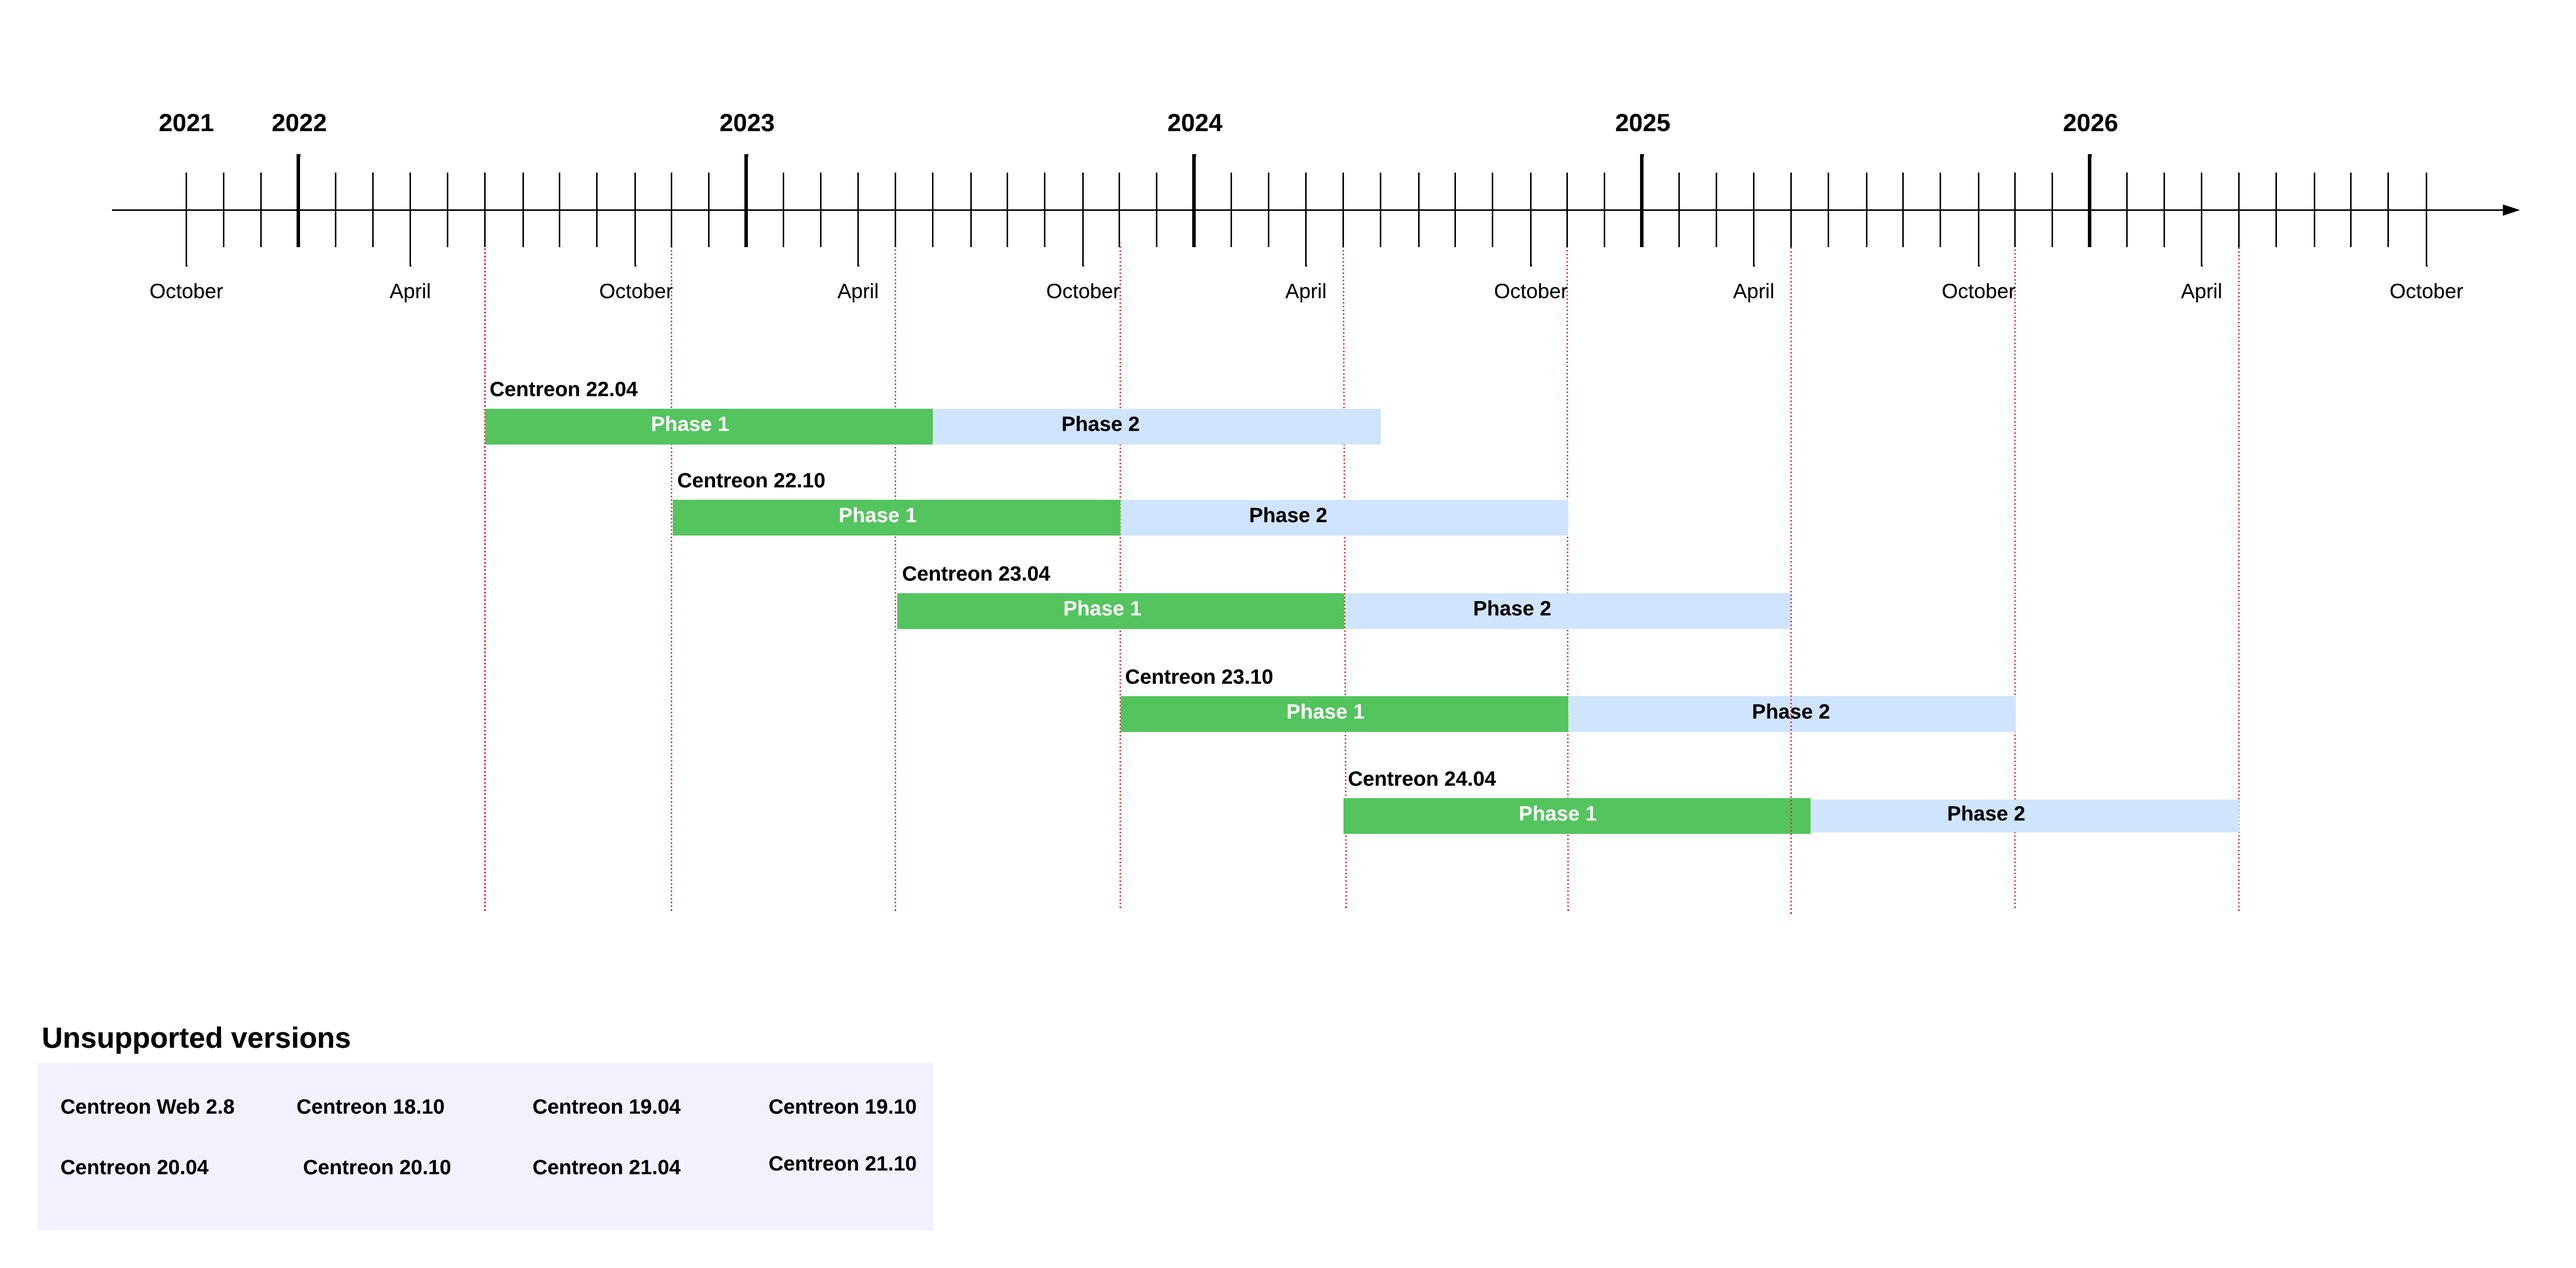
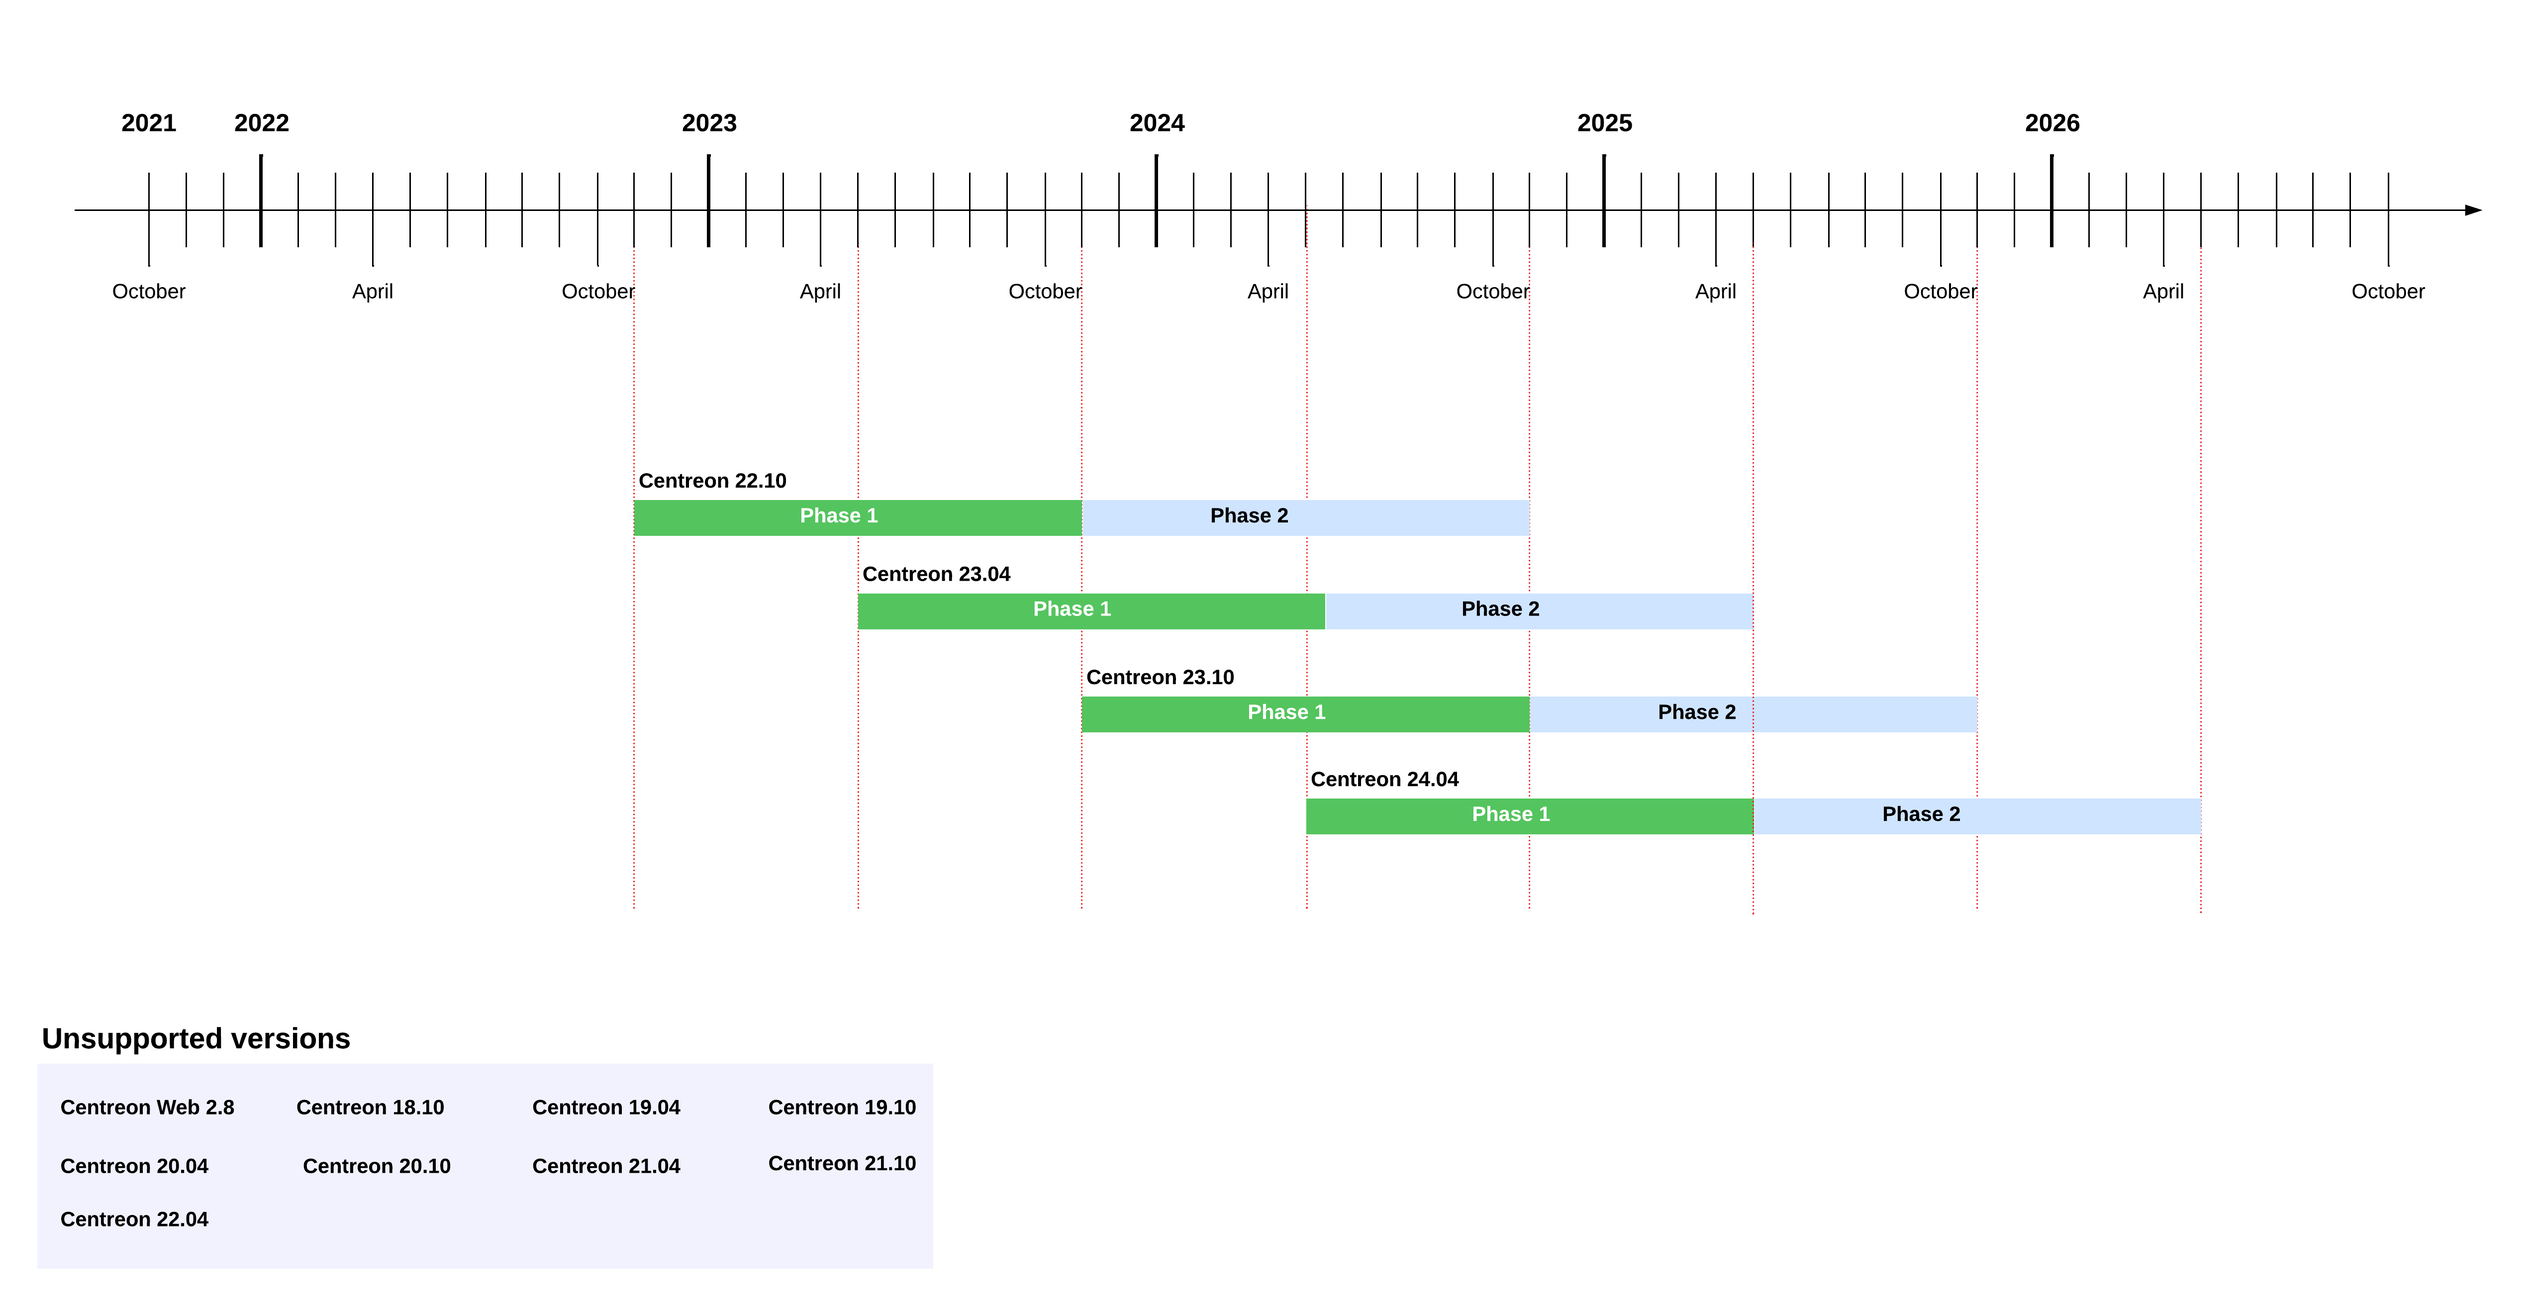
Update for new lifecycle from 24.10

diff --git a/i18n/fr/docusaurus-plugin-content-docs/version-24.10/releases/lifecycle.md b/i18n/fr/docusaurus-plugin-content-docs/version-24.10/releases/lifecycle.md
@@ -2,6 +2,8 @@
 id: lifecycle
 title: Politique de cycle de vie des solutions
 ---
+import Tabs from '@theme/Tabs';
+import TabItem from '@theme/TabItem';
 
 La société Centreon publie de nouvelles versions
 de Centreon sur une cadence régulière depuis Centreon 18.10, permettant à la communauté, aux
@@ -18,23 +20,67 @@ version.
 
 ## Cadence de publication
 
-La société Centreon publie 2 versions par an. La première sera une version majeure, livrée au printemps
-(comprenant de nouveaux produits ou fonctionnalités ainsi que des changements d'architecture).
-La seconde sera une version mineure, livrée en automne (apportant majoritairement des améliorations et des 
-correctifs aux fonctionnalités existantes). Entre ces deux versions majeures, Centreon fournira de
-manière régulière des versions mineures (numérotées AA.MM.NN), comprenant des correctifs de sécurité,
-des correctifs et des améliorations.
+<Tabs groupId="sync">
+<TabItem value="À partir de la version 24.10" label="À partir de la version 24.10">
+
+- À partir de Centreon 24.10, Centreon publiera **une version majeure par an**.
+- Des versions mineures, avec des corrections de bugs et des améliorations mineures, sortiront sur une base mensuelle.
+- Une version Service Pack, cumulant toutes les modifications des versions mineures, sera généralement livrée après six mois.
 
 ## Mises à jour de maintenance et de sécurité
 
-### Jusqu'à la version 21.04
+- Toutes les versions majeures Open Source sont supportées pendant 18 mois.
+- Les versions commerciales majeures de 2024, 2026 et toutes les années paires sont des versions LTS (supportées pendant 3 ans).
+- Les versions commerciales majeures de 2025, 2027 et toutes les années impaires sont supportées pendant 18 mois.
+
+## Cycle de vie
+
+Le cycle de vie d'une version est divisé en 3 phases :
+
+1. Première phase : bogues de toute criticité (minor, major, critical, blocking) et correction de sécurité seront traités par priorité. Des améliorations fonctionnelles seront ajoutées.
+2. Seconde phase : bogues et correction de sécurité de criticité major, critical et blocking seront traités par priorité.
+3. Troisième phase : bogues et correction de sécurité de criticité blocking seront traités par priorité.
+
+> La priorisation des bogues est faite par l'équipe produit Centreon.
+
+La première phase du cycle de vie commence le jour de la sortie de la version.
+
+La deuxième phase d'une version commence lorsque la prochaine version majeure est disponible. Par exemple, la publication de Centreon 25.10 lance la deuxième phase de Centreon 24.10.
+
+La troisième phase d'une version commence lorsque la deuxième version majeure suivante est disponible. Par exemple, la sortie de Centreon 26.10 lance la troisième phase de Centreon 24.10 et la deuxième phase de Centreon 25.10.
+
+### Schéma
+
+Le schéma suivant présente le cycle de vie des produits Centreon à partir de la version 24.10 :
+
+*[ajouter nouveau schema]*
+
+## Tableau de maintenance des versions
+
+> Tous les autres produits non décrits dans les tableaux suivants ne sont plus
+> pris en charge par Centreon.
+
+| Produit        | Sortie       | Date de fin de support    | État                |
+|----------------|--------------|---------------------------|---------------------|
+| Centreon 24.04 | 04/2024      | 04/2026                   | Supportée           |
+| Centreon 23.10 | 10/2023      | 10/2025                   | Supportée           |
+| Centreon 23.04 | 04/2023      | 04/2025                   | Supportée           |
+| Centreon 22.10 | 10/2022      | 10/2024                   | Supportée           |
+| Centreon 22.04 | 05/2022      | 05/2024                   | Plus supportée      |
+| Centreon 21.10 | 11/2021      | 11/2023                   | Plus supportée      |
+| Centreon 21.04 | 04/2021      | 10/2022                   | Plus supportée      |
+| Centreon 20.10 | 10/2020      | 05/2022                   | Plus supportée      |
+| Centreon 20.04 | 04/2020      | 10/2021                   | Plus supportée      |
+
+</TabItem>
+<TabItem value="Jusqu'à la version 24.04" label="Jusqu'à la version 24.04">
 
 Jusqu'à la version 21.04 incluse, les versions étaient supportées pendant 18 mois. Le cycle de vie d'une version est divisé en 3 phases :
 
 1.  Première phase : bogues de toute criticité (minor, major, critical,
     blocking) et correction de sécurité seront traités par priorité
 2.  Seconde phase : bogues et correction de sécurité de criticité major,
-    critical et blocking seront traités par priorité
+    critical et blocking seront traités par priorité.
 3. Troisième phase : bogues et correction de sécurité de criticité blocking seront traités par priorité.
 
 > La priorisation des bogues est faite par l'équipe produit
@@ -64,7 +110,7 @@ troisième phase de Centreon 20.04 et la deuxième phase de Centreon 20.10.
 
 ### Schéma
 
-Le schéma suivant présente le cycle de vie des produits Centreon :
+Le schéma suivant présente le cycle de vie des produits Centreon jusqu'à la version 24.04 :
 
 ![image](../assets/releases/lifecycle.png)
 
@@ -87,3 +133,6 @@ Le schéma suivant présente le cycle de vie des produits Centreon :
 | Centreon 19.10 | 10/2019      | 04/2021                   | Plus supportée      |
 | Centreon 19.04 | 04/2019      | 10/2020                   | Plus supportée      |
 | Centreon 18.10 | 10/2018      | 04/2020                   | Plus supportée      |
+
+</TabItem>
+</Tabs>

diff --git a/versioned_docs/version-24.10/releases/lifecycle.md b/versioned_docs/version-24.10/releases/lifecycle.md
@@ -2,6 +2,8 @@
 id: lifecycle
 title: Product lifecycle policy
 ---
+import Tabs from '@theme/Tabs';
+import TabItem from '@theme/TabItem';
 
 Centreon has been publishing new releases of the
 Centreon solution at regular intervals since version 18.10, enabling the community, businesses and
@@ -17,11 +19,64 @@ components of the Centreon software suite use the same version numbers.
 
 ## Release frequency
 
-Centreon delivers two releases per year. The first
-will occur in the spring and will be major (including new products or features as well as larger architecture changes),
-while the second will be in the fall and will be minor (including primarily enhancements and fixes to existing features). 
-Between these two, Centreon will regularly deliver minor updates (versioned YY.MM.NN), 
-including security/vulnerability fixes, bug fixes and enhancements to the software.
+<Tabs groupId="sync">
+<TabItem value="From version 24.10" label="From version 24.10">
+
+Starting with Centreon 24.10, Centreon will release **one major version per year**.
+
+Minor versions, with bug fixes and minor improvements will be released on a monthly basis. A Service Pack version, cumulating all minor versions changes, will typically be delivered after six months.
+
+## Maintenance and security updates
+
+- All Open Source major versions are supported for 18 months.
+- Commercial major versions released in 2024, 2026 and any even years are LTS versions (supported for 3 years).
+- Commercial major versions released in 2025, 2027 and any odd years are supported for 18 months.
+
+## Lifecycle
+
+The lifecycle of a version is divided into three phases:
+
+1.  First phase: Bugs of all severity levels (minor, major, critical, blocker)
+    and security issues are fixed according to their priority. Functional enhancements are added.
+2.  Second phase: Major, critical bugs and blockers, or security issues are
+    fixed according to their priority.
+3.  Third phase: Blockers or security issues are fixed according to their priority.
+
+> The prioritization is determined by Centreon’s Product team.
+
+The first phase of the lifecycle begins on the day of a version release.
+
+The second phase of a version begins when the next major version is available. For example, the release of Centreon 25.10 triggers the second phase of Centreon 24.10.
+
+The third phase of a version begins when the second next major version is available. For example, the release of Centreon 26.10 triggers the third phase of Centreon 24.10 and the second phase of Centreon 25.10.
+
+### Version lifecycle diagram
+
+This diagram outlines the Centreon version lifecycle policy from version 24.10:
+
+*[Add new lifecycle diagram]*
+
+## Maintenance table for Centreon versions
+
+> Any other products not described in the following tables are no longer supported
+> by Centreon.
+
+| Product        | Release      | End of support| State               |
+|----------------|--------------|---------------|---------------------|
+| Centreon 24.04 | 04/2024      | 04/2026       | Supported           |
+| Centreon 23.10 | 10/2023      | 10/2025       | Supported           |
+| Centreon 23.04 | 04/2023      | 04/2025       | Supported           |
+| Centreon 22.10 | 10/2022      | 10/2024       | No longer supported |
+| Centreon 22.04 | 05/2022      | 05/2024       | No longer supported |
+| Centreon 21.10 | 11/2021      | 11/2023       | No longer supported |
+| Centreon 21.04 | 04/2021      | 10/2022       | No longer supported |
+| Centreon 20.10 | 10/2020      | 05/2022       | No longer supported |
+| Centreon 20.04 | 04/2020      | 10/2021       | No longer supported |
+
+</TabItem>
+<TabItem value="Until version 24.04" label="Until version 24.04">
+
+Centreon delivers two releases per year. The first will occur in the spring and will be major (including new products or features as well as larger architecture changes), while the second will be in the fall and will be minor (including primarily enhancements and fixes to existing features). Between these two, Centreon will regularly deliver minor updates (versioned YY.MM.NN), including security/vulnerability fixes, bug fixes and enhancements to the software.
 
 ## Maintenance and security updates
 
@@ -60,7 +115,7 @@ Since version 21.10, versions are supported for two years. The lifecycle of a ve
 
 ### Version lifecycle diagram
 
-This diagram outlines the Centreon version lifecycle policy:
+This diagram outlines the Centreon version lifecycle policy until version 24.04:
 
 ![image](../assets/releases/lifecycle.png)
 
@@ -74,7 +129,7 @@ This diagram outlines the Centreon version lifecycle policy:
 | Centreon 24.04 | 04/2024      | 04/2026       | Supported           |
 | Centreon 23.10 | 10/2023      | 10/2025       | Supported           |
 | Centreon 23.04 | 04/2023      | 04/2025       | Supported           |
-| Centreon 22.10 | 10/2022      | 10/2024       | Supported           |
+| Centreon 22.10 | 10/2022      | 10/2024       | No longer supported |
 | Centreon 22.04 | 05/2022      | 05/2024       | No longer supported |
 | Centreon 21.10 | 11/2021      | 11/2023       | No longer supported |
 | Centreon 21.04 | 04/2021      | 10/2022       | No longer supported |
@@ -84,3 +139,5 @@ This diagram outlines the Centreon version lifecycle policy:
 | Centreon 19.04 | 04/2019      | 10/2020       | No longer supported |
 | Centreon 18.10 | 10/2018      | 04/2020       | No longer supported |
 
+</TabItem>
+</Tabs>
